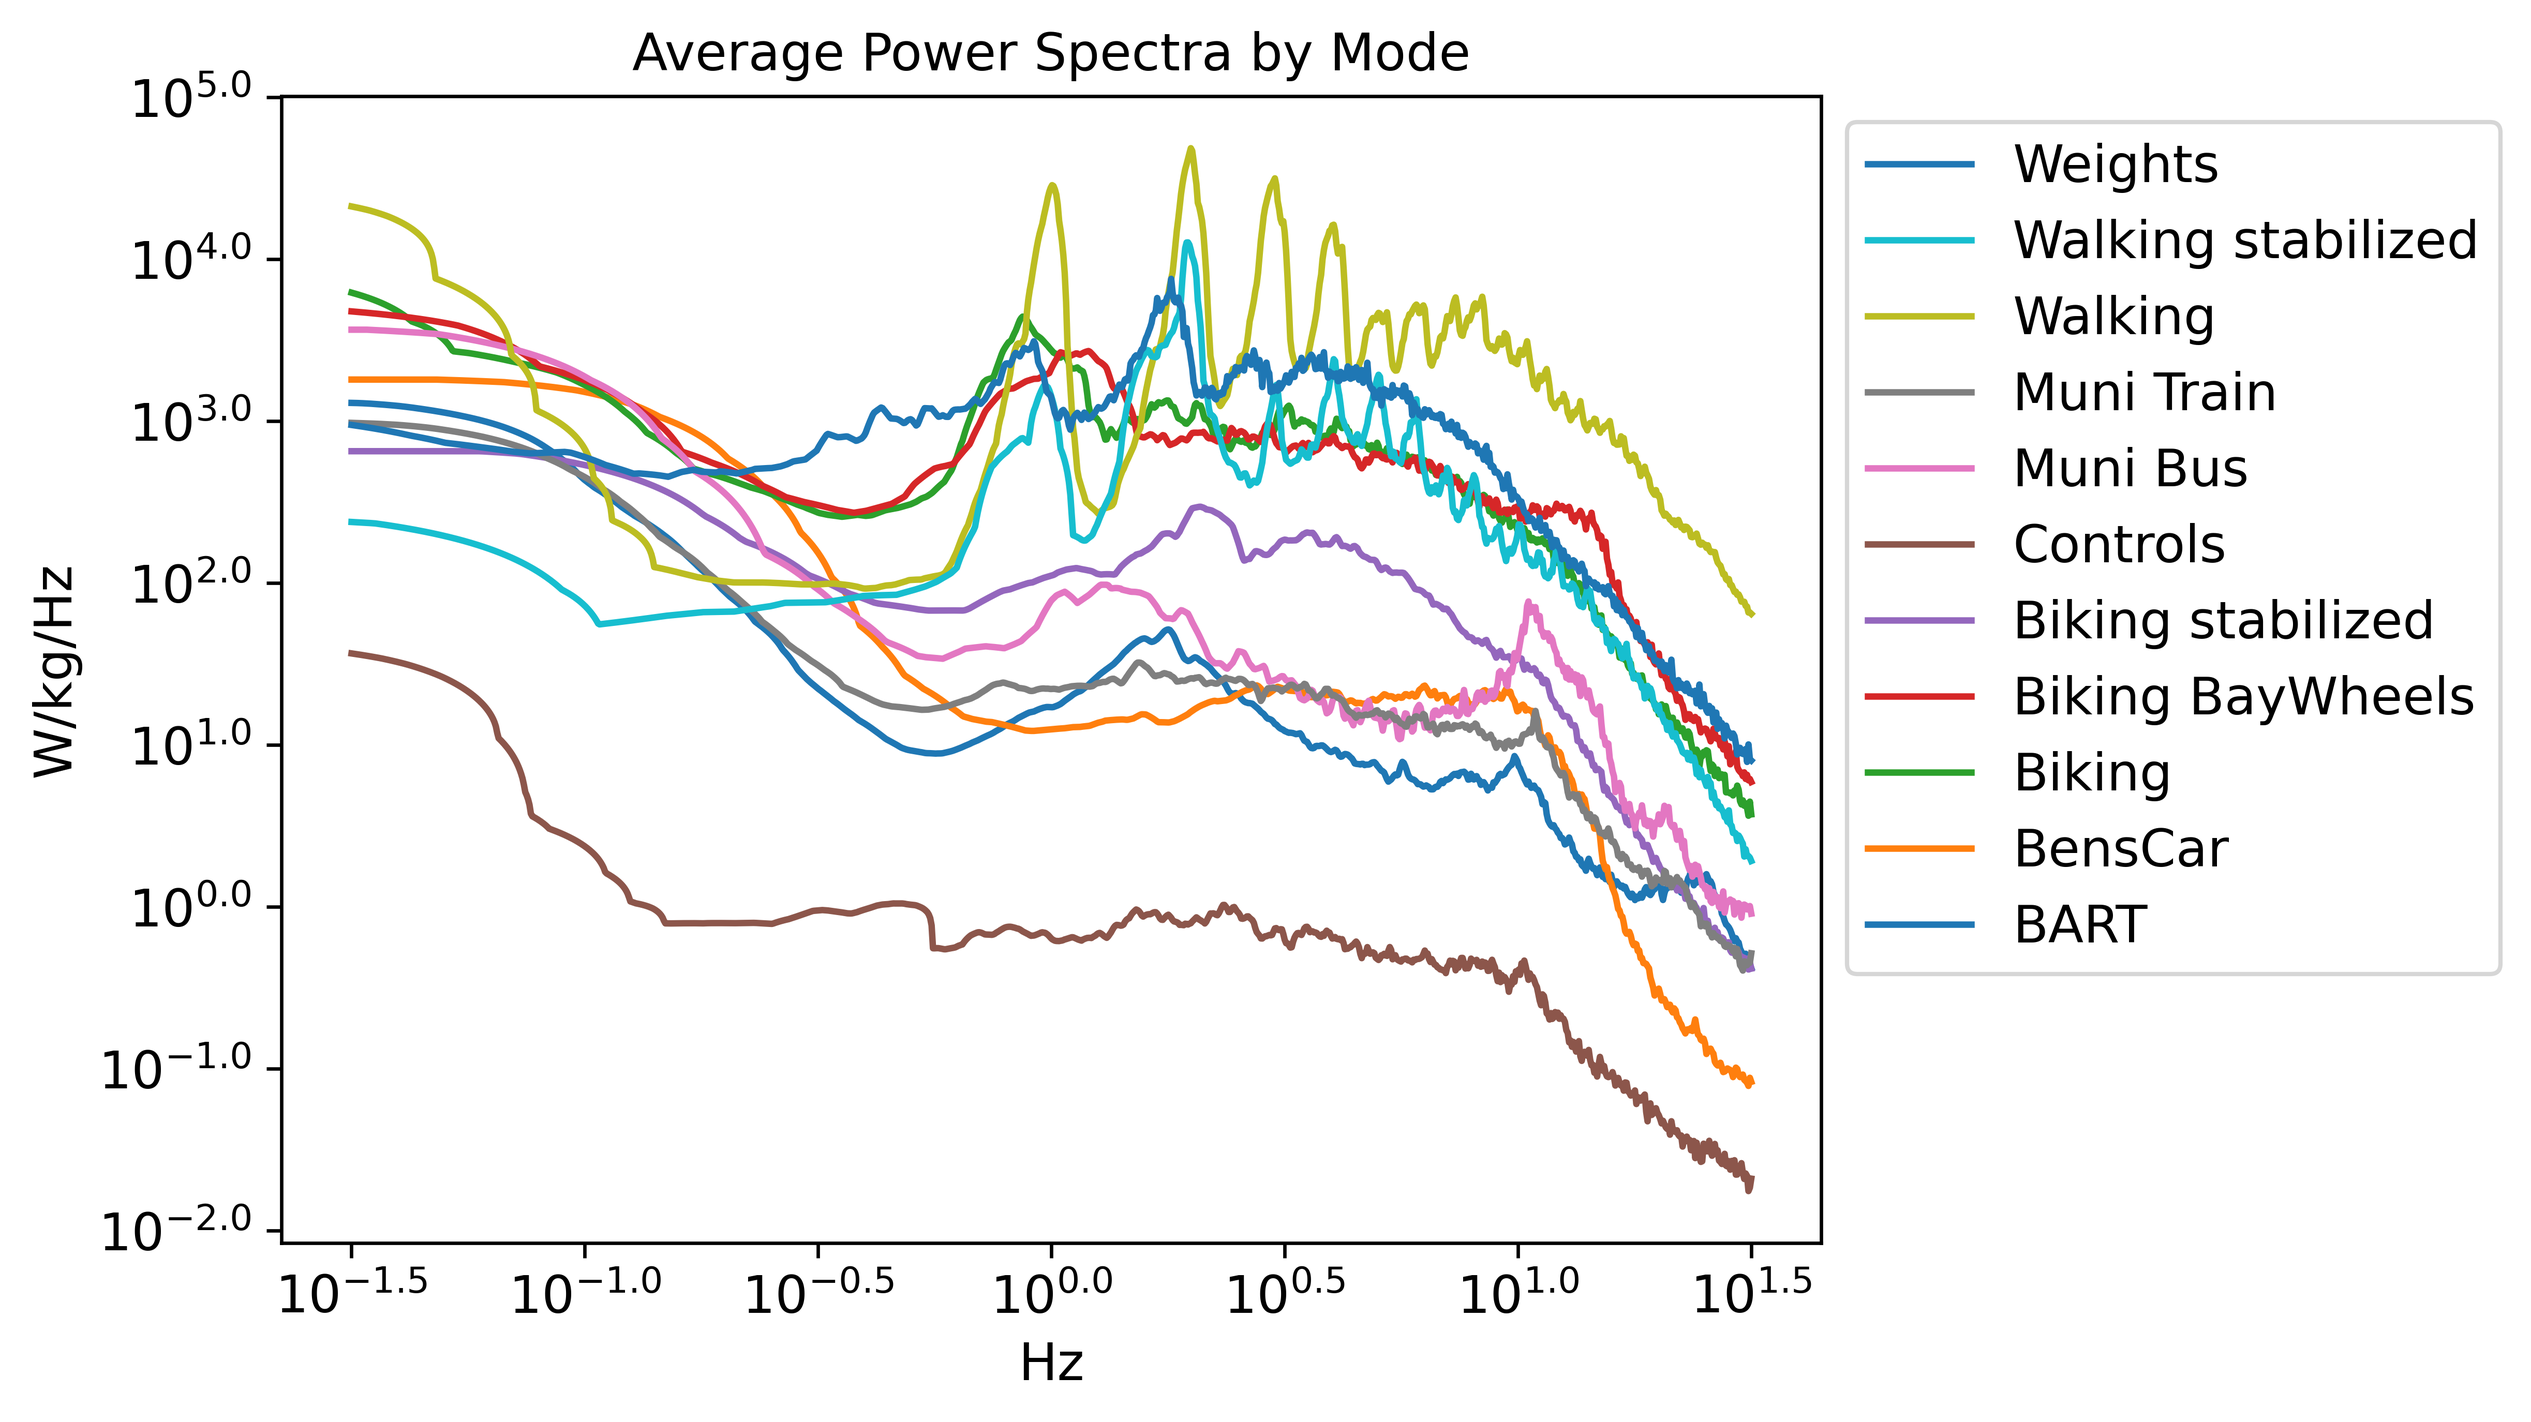
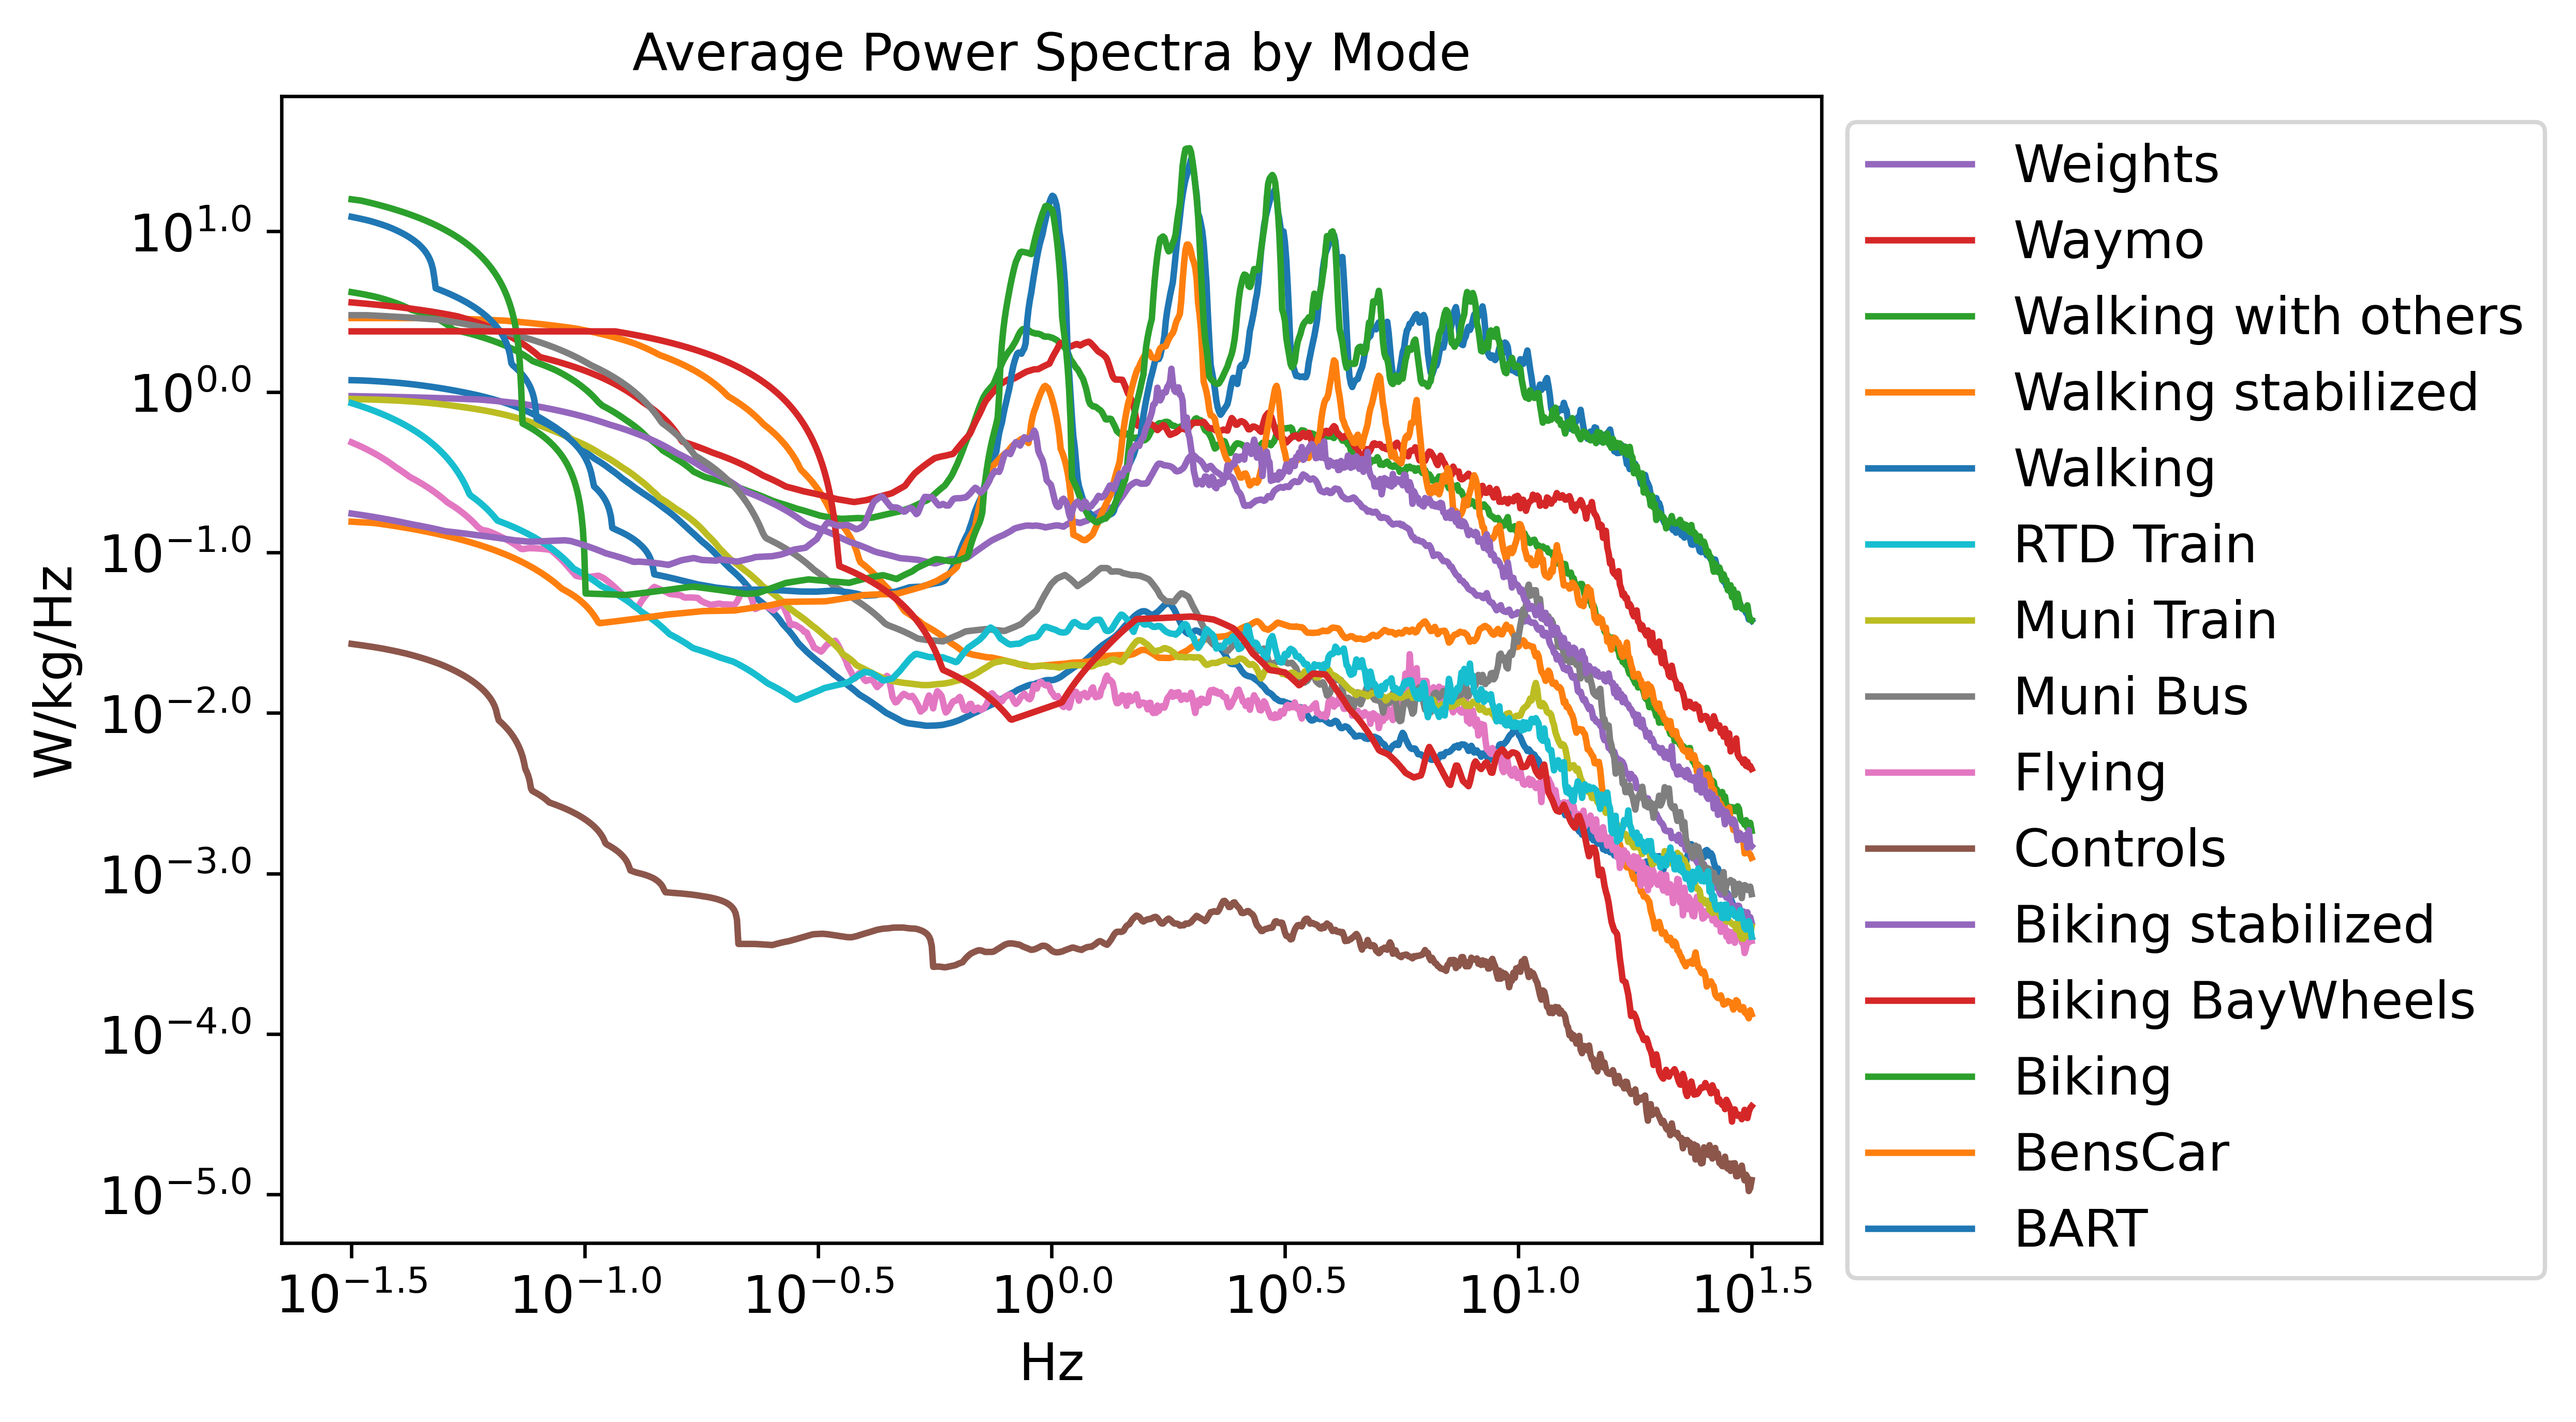
BUG FIX: missing 1/T factor in power spectrum calc.
-Apparently was missing a 1/T factor for the power spectrum, normalizing for the trip duration. This would have spuriously shown higher power for longer trips, and unphysically large integrated power.
-Replace example figures and update tech note.
-Also clean up individual chart format.

diff --git a/analyze_functionalized.py b/analyze_functionalized.py
@@ -52,7 +52,7 @@ for file in files:
     if not pathlib.Path(outputdir / (title + '.png')).exists():
         ps_smoothed = accelerometers.smooth(ps, smooth_window=smooth_when_plot)
         plt.figure()
-        plot_util.generic_plot(np.log10(ps_smoothed[accelerometers.POWER_LABEL]), kind='line', xlabel='Hz', ylabel='log10(W/kg/Hz)',
+        plot_util.generic_plot(np.log10(ps_smoothed[accelerometers.POWER_LABEL]), kind='line', xlabel='Hz', ylabel='W/kg/Hz', logy=True,
                                title=title, output_directory=outputdir)
         plt.close()
 
@@ -60,7 +60,7 @@ for file in files:
     if not pathlib.Path(outputdir / (title + '_logx.png')).exists():
         ps_smoothed = accelerometers.smooth(ps, smooth_window=smooth_when_plot)
         plt.figure()
-        plot_util.generic_plot(np.log10(ps_smoothed[accelerometers.POWER_LABEL]).rename(np.log10, axis=0), kind='line', xlabel='log10(Hz)', ylabel='log10(W/kg/Hz)',
+        plot_util.generic_plot(np.log10(ps_smoothed[accelerometers.POWER_LABEL]).rename(np.log10, axis=0), kind='line', xlabel='Hz', ylabel='W/kg/Hz', logy=True, logx=True,
                                title=title + '_logx', output_directory=outputdir)
         plt.close()
 
@@ -68,7 +68,7 @@ for file in files:
     tot_pow_collection[title] = total_pow
     g_collection[title] = df['g-force'].mean()
 
-    print('Total Power: ' + str(int(total_pow)) + ' W/kg')
+    print('Total Power: ' + str(round(total_pow, 2)) + ' W/kg')
     print('Mean g-force: ' + str(df['g-force'].mean().round(2)) + " g's")
 
 print(len(ps_collection))

diff --git a/accelerometers.py b/accelerometers.py
@@ -54,10 +54,11 @@ def ps(data, smooth_window=10):
     # Determine timestep
     steps = data.index[1:] - data.index[:-1]
     dt = np.median(steps)
+    T = len(steps) * dt # Total T estimated allowing for cuts in recording
     
-    # Normalize for physical power spectrum units
+    # Normalize for recording length and allow physical power spectrum units
     # See https://en.wikipedia.org/wiki/Spectral_density#Units and https://en.wikipedia.org/wiki/Spectral_density#Power_spectral_density
-    df *= dt**2
+    df *= dt**2 / T
     
     # Retrieve frequency axis
     df[FREQ_LABEL] = np.fft.rfftfreq(len(data), d=dt)

diff --git a/writeup/TechNote.md b/writeup/TechNote.md
@@ -20,10 +20,12 @@ where $\vec{a}$ [m s $^{-2}$] is the vector linear acceleration  (over each spat
 The [power spectrum](https://en.wikipedia.org/wiki/Spectral_density) $S_\tau(f)$ [W kg $^{-1}$ s] at frequency $f$ for trip $\tau$ is:
 
 ```math
-S_\tau(f) = \Delta t^2 \left(|\hat{a}_x(f)|^2 + |\hat{a}_y(f)|^2 + |\hat{a}_z(f)|^2\right) _\tau
+S_\tau(f) = \frac{\Delta t^2}{T} \left(|\hat{a}_x(f)|^2 + |\hat{a}_y(f)|^2 + |\hat{a}_z(f)|^2\right) _\tau
 ```
 
-where $\hat{a}_{x,y,z}(f)$ is the Real [Discrete Fourier Transform](https://en.wikipedia.org/wiki/Discrete_Fourier_transform) of the acceleration for each spatial component and $\Delta t$ [s] is the timestep. The Real Discrete Fourier Transform is evaluated using the _numpy_ functions "rfft" and "rfftfreq."
+where $\hat{a}_{x,y,z}(f)$ is the Real [Discrete Fourier Transform](https://en.wikipedia.org/wiki/Discrete_Fourier_transform) of the acceleration for each spatial component, $\Delta t$ [s] is the timestep, and $T$ [s] is the trip duration. The Real Discrete Fourier Transform is evaluated using the _numpy_ functions "rfft" and "rfftfreq."
+
+To convert to commonly reported units for vibration analysis, divide this result $g^2$ (about 100 in these units) to yield units of $\frac{g^2}{Hz}$.
 
 ## Log-mean power spectrum
 
@@ -49,6 +51,7 @@ where $S(f)$ is a power spectrum or mean power spectrum. The integral should be 
 P = \int_{f_1}^{f_2}10^{\log_{10}\bar{S}_m(f)}df .
 ```
 
+The root-mean-square (rms) acceleration would be proportional to $\sqrt{P}$.
 
 
 ## Cleaning, smoothing, and interpolation
